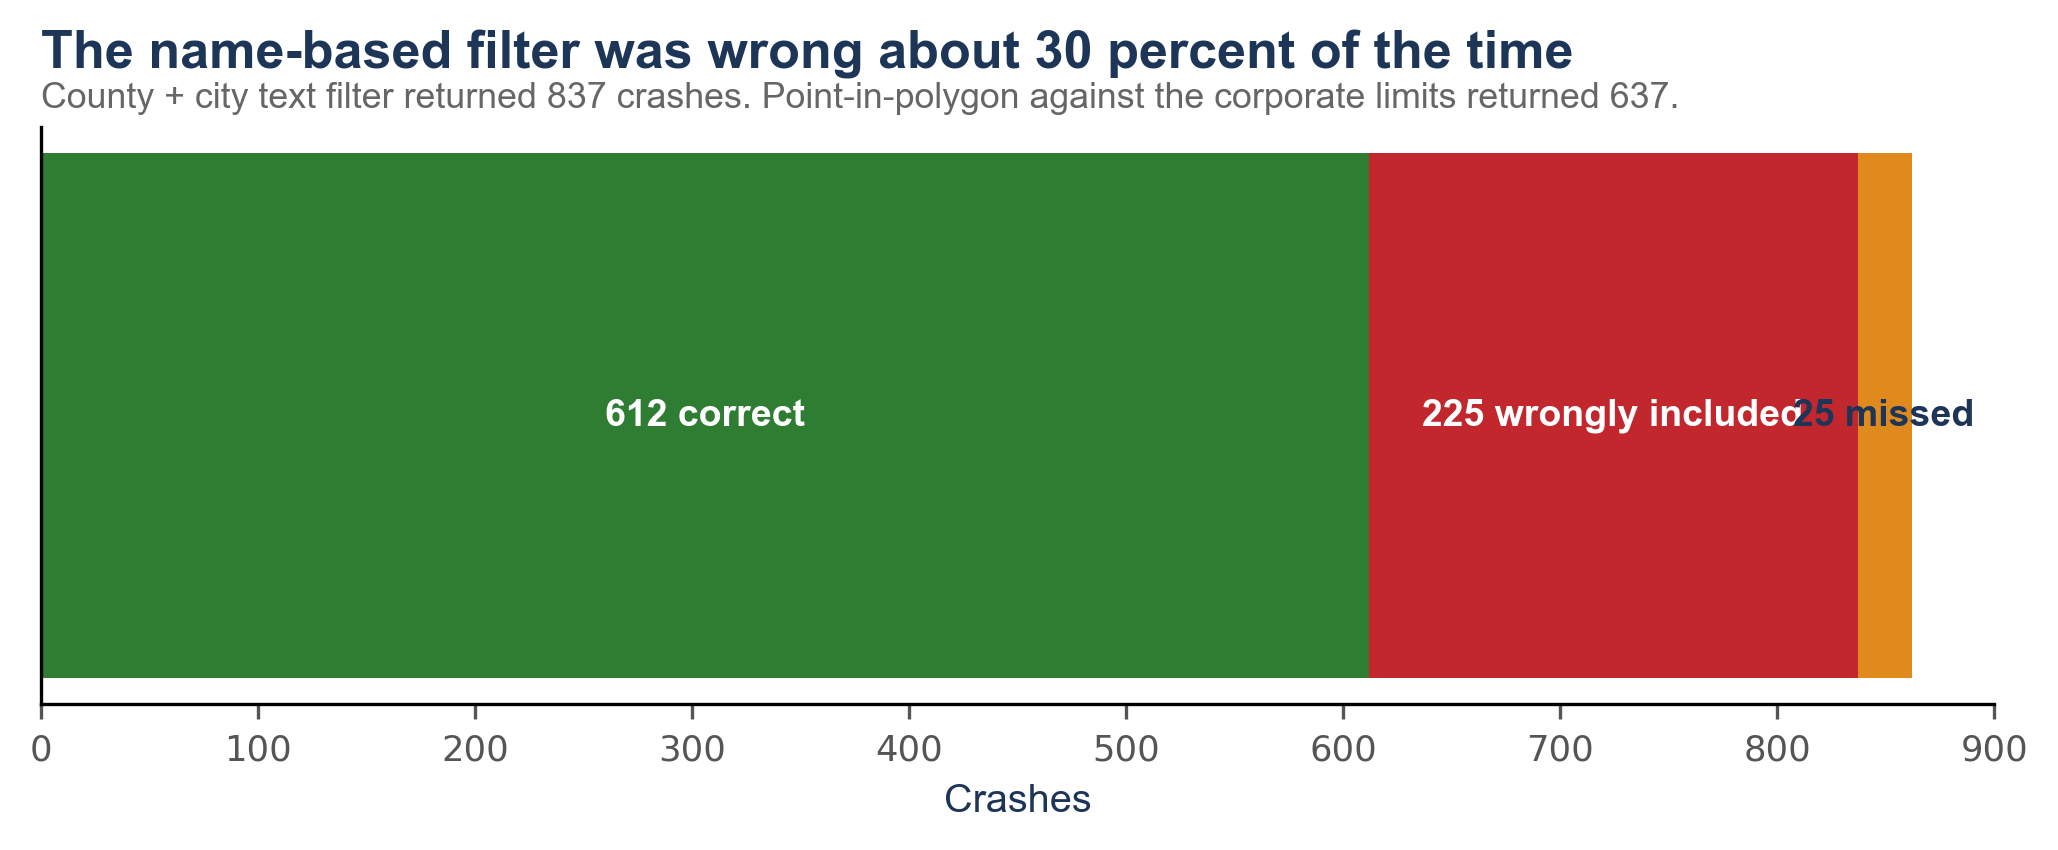
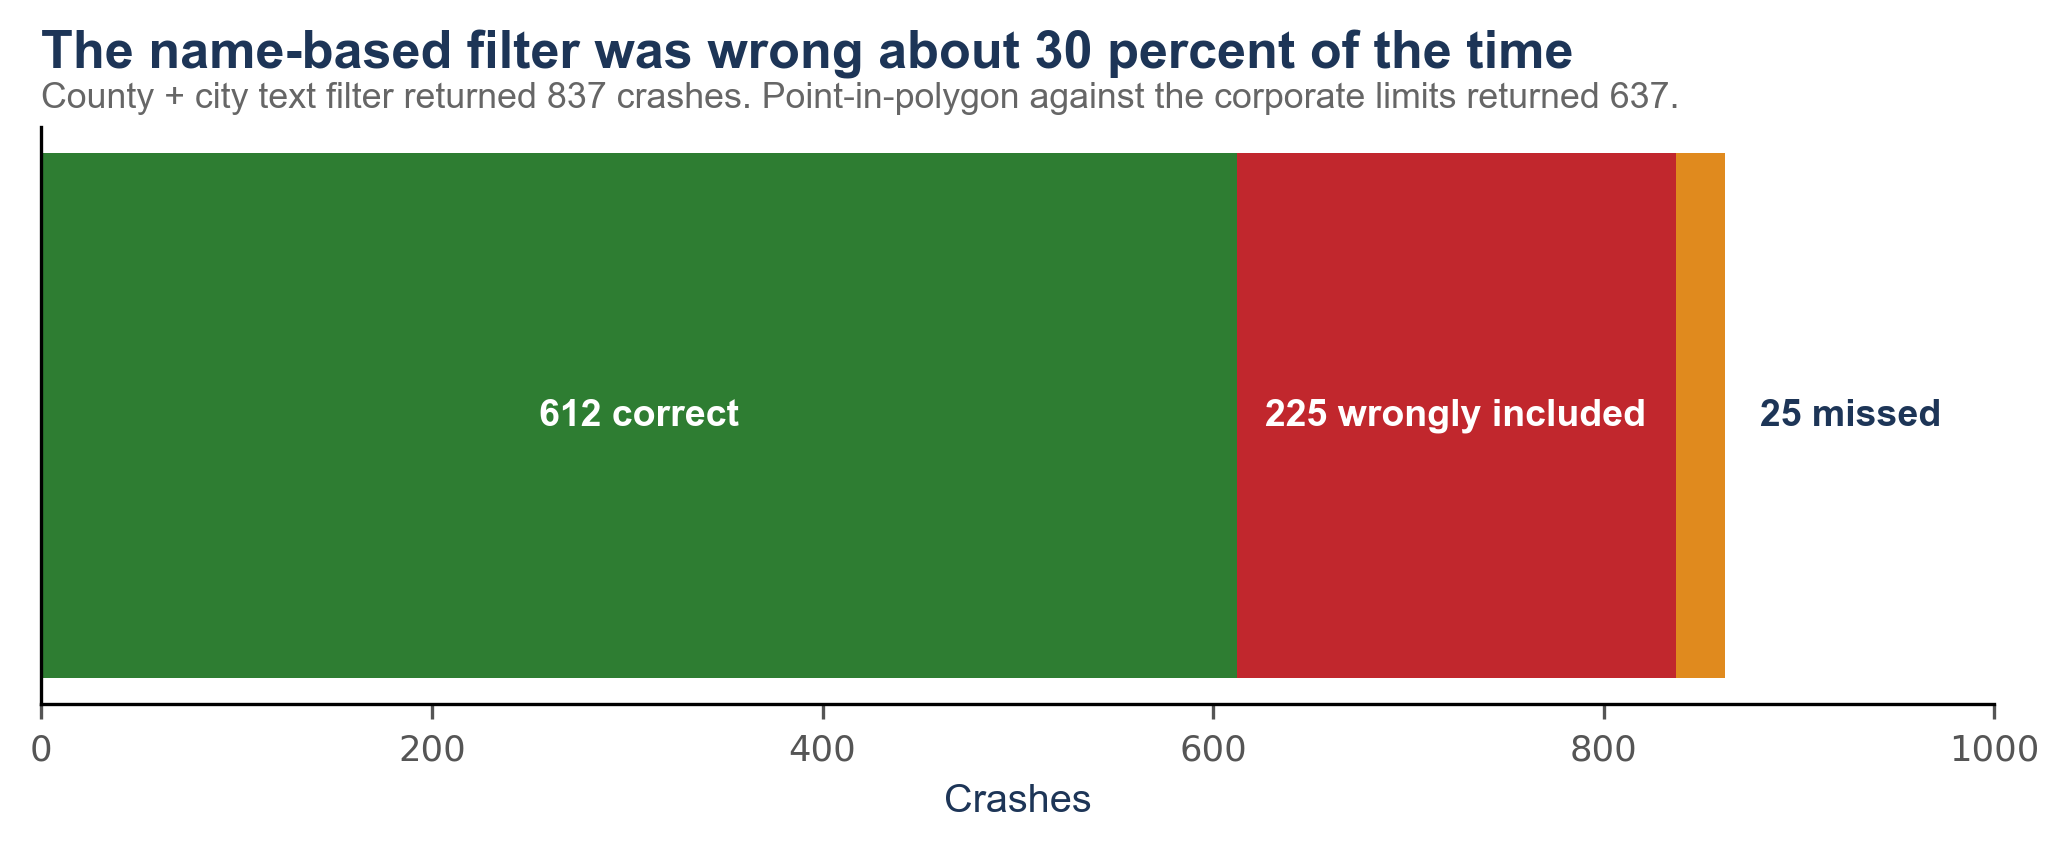
Fix the colliding labels on the name-filter figure
The '25 missed' label was centred inside a segment only 25 units wide, so
it ran back over '225 wrongly included' and the two rendered on top of one
another. Labels that do not fit their segment now sit outside the bar end.

Updates both the committed PNG and the script that generates it, so
re-running build_charts.py reproduces the corrected figure rather than
reintroducing the overlap.

diff --git a/scripts/build_charts.py b/scripts/build_charts.py
@@ -128,10 +128,14 @@ vals, colors = [612, 225, 25], [CITY, INTER, STATE]
 b = ax.barh([0], [612], color=CITY, height=.5, label='Correct')
 ax.barh([0], [225], left=[612], color=INTER, height=.5)
 ax.barh([0], [25], left=[837], color=STATE, height=.5)
-ax.set_xlim(0, 900); ax.set_yticks([])
-for x, w, t in [(306, 612, '612 correct'), (724, 225, '225 wrongly included'), (849, 25, '25 missed')]:
+ax.set_xlim(0, 1000); ax.set_yticks([])
+for x, t in [(306, '612 correct'), (724, '225 wrongly included')]:
     ax.text(x, 0, t, ha='center', va='center', fontsize=9,
-            color='white' if w > 100 else NAVY, fontweight='bold', fontname=F)
+            color='white', fontweight='bold', fontname=F)
+# The 25-wide segment is far too narrow to hold a nine-character label; centring
+# it there ran the text back over '225 wrongly included', so it sits outside.
+ax.annotate('25 missed', xy=(862, 0), xytext=(880, 0), ha='left', va='center',
+            fontsize=9, color=NAVY, fontweight='bold', fontname=F)
 finish(ax, 'The name-based filter was wrong about 30 percent of the time',
        'County + city text filter returned 837 crashes. Point-in-polygon against the corporate limits returned 637.')
 ax.set_xlabel('Crashes', fontsize=9.5, color=NAVY, fontname=F)
